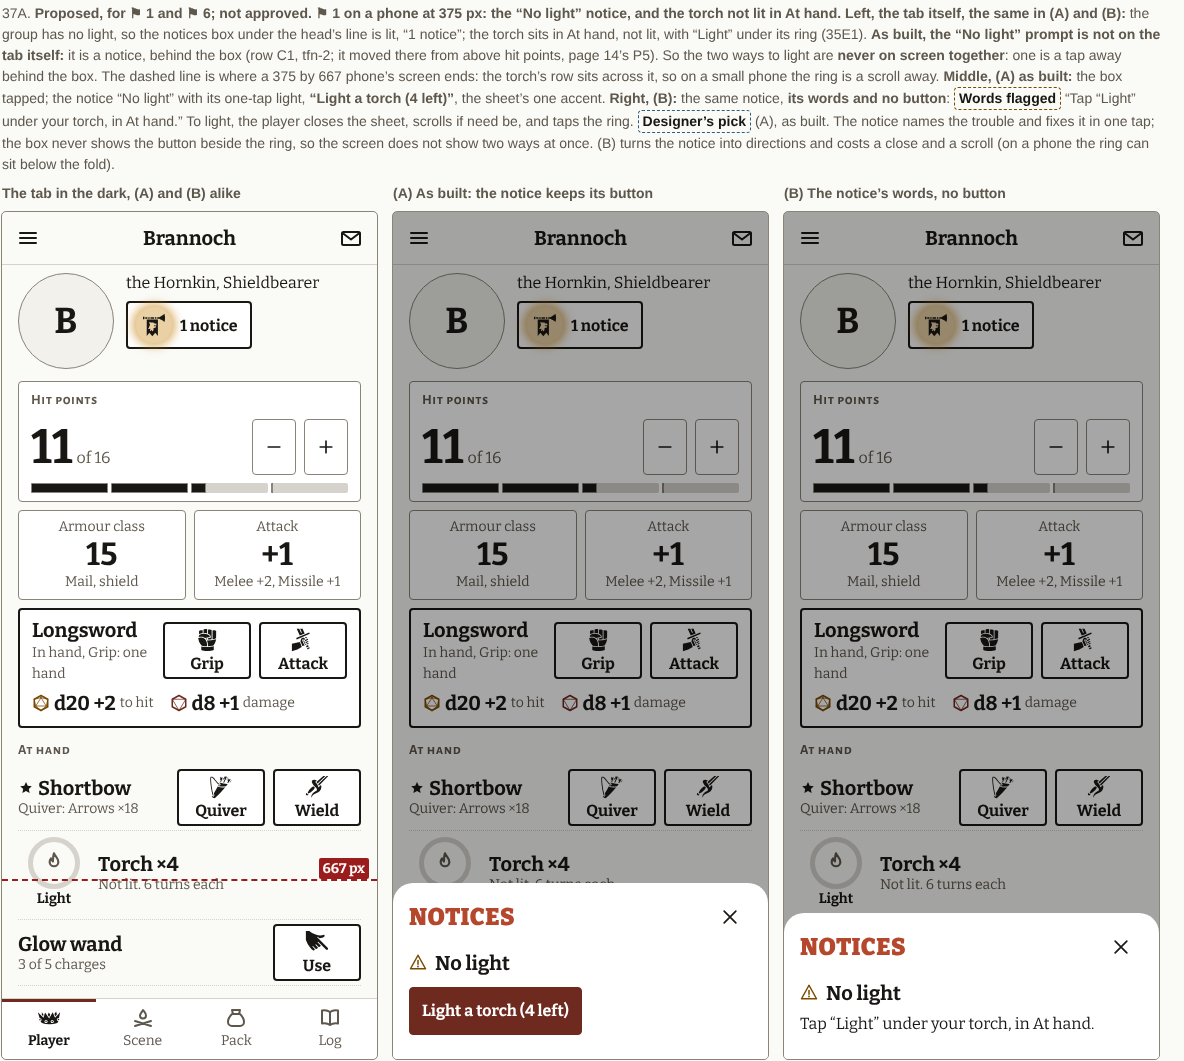
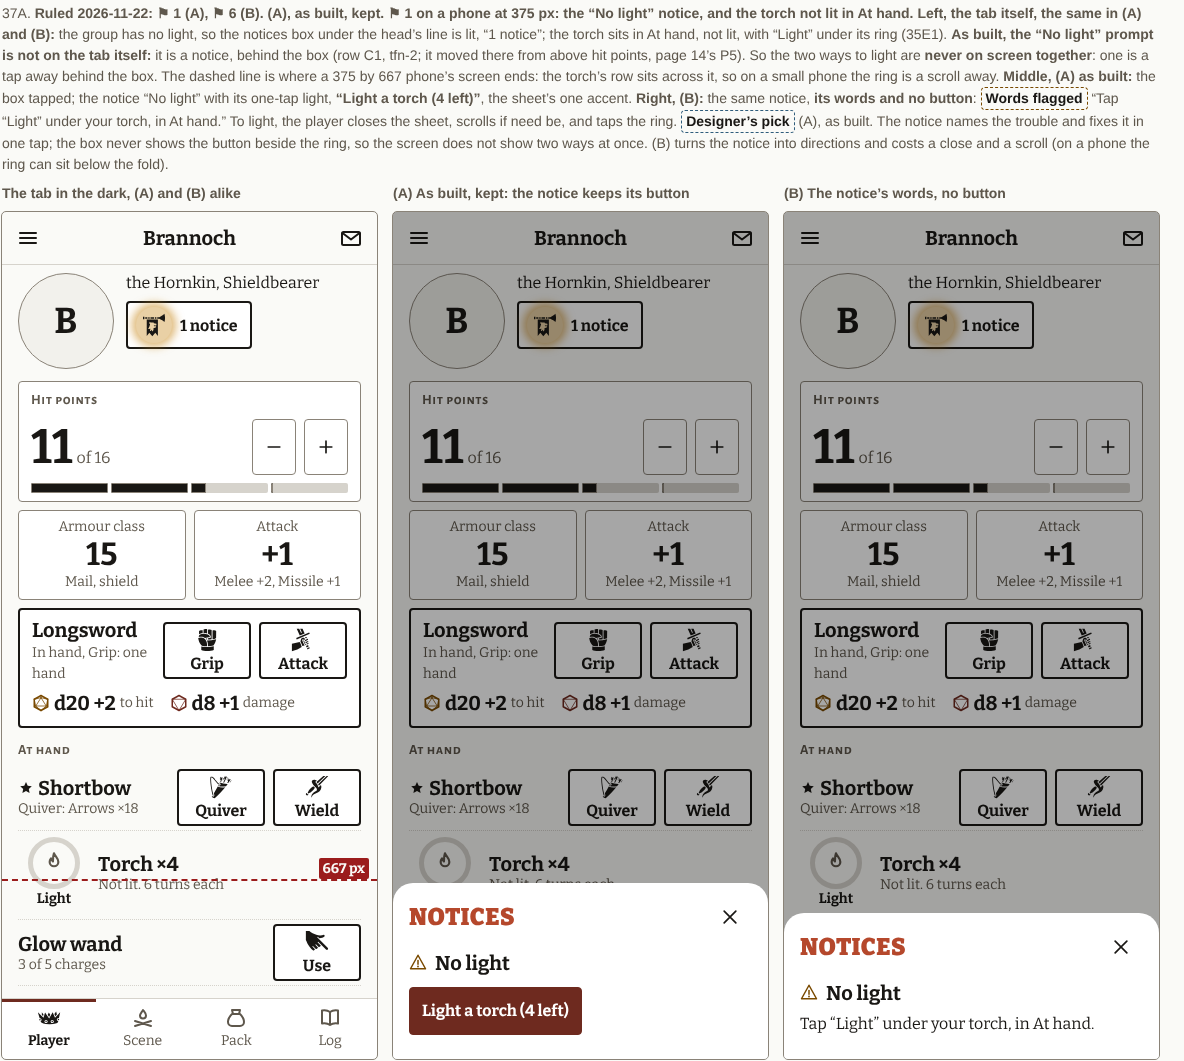
mock-light-flags: page 37 ruled, ⚑ 1 (A) and ⚑ 6 (B)
Francis, 2026-11-22, "1A 6B": the "No light" notice keeps its button (as
built, kept); the light's error sits in the light's place inside At hand
(37C's two (B) frames approved). Pictures re-rendered; index rows updated.

Claude-Session: https://claude.ai/code/session_01378fdkuF1M2QHmo7WWDM8F

Changed region(s): [[0.0, 0.0, 0.9688, 0.1866]]

diff --git a/docs/design/mockups/december/37-light-flags-1-and-6.html b/docs/design/mockups/december/37-light-flags-1-and-6.html
@@ -2,7 +2,7 @@
 <html lang="en">
 <head>
 <meta charset="utf-8">
-<title>December: page 37, the light's ⚑ 1 and ⚑ 6, as built and the alternative (proposed, 2026-11-22)</title>
+<title>December: page 37, the light's ⚑ 1 and ⚑ 6, as built and the alternative (ruled 2026-11-22: ⚑ 1 (A), ⚑ 6 (B))</title>
 <link rel="stylesheet" href="../creation/final/final.css">
 <link rel="stylesheet" href="../scene/scene.css">
 <link rel="stylesheet" href="../scene/scene-seq.css">
@@ -102,7 +102,7 @@
 <script src="../shared/book.js"></script>
 <script>
 // Invented names and numbers only. Brannoch's Player tab in the dark, his torch not lit (page 35, frame 35E1).
-const PROPOSED = '<b>Proposed, for ⚑ 1 and ⚑ 6; not approved.</b> ';
+const RULED = '<b>Ruled 2026-11-22: ⚑ 1 (A), ⚑ 6 (B).</b> ';
 const dpick = (words) => `<span class="pk">Designer’s pick</span> ${words}`;
 const flag = (words) => `<span class="flag">Words flagged</span> ${words}`;
 const stk = (words, k) => `<span class="btn stk" role="button">${gi(k, 24)}<span>${words}</span></span>`;
@@ -144,27 +144,27 @@ const SHEET_B = noticeSheet({ body: 'Tap “Light” under your torch, in At han
 const tabDark = `${headPhone}${hp}${acAtk}${weapon}${atHand(unlit(TORCHES))}`;
 
 // ---- 37A: ⚑ 1 on a phone ----
-const kA = frameOf(`37A. ${PROPOSED}<b>⚑ 1 on a phone at 375 px: the “No light” notice, and the torch not lit in At hand.</b> <b>Left, the tab itself, the same in (A) and (B):</b> the group has no light, so the notices box under the head’s line is lit, “1 notice”; the torch sits in At hand, not lit, with “Light” under its ring (35E1). <b>As built, the “No light” prompt is not on the tab itself:</b> it is a notice, behind the box (row C1, tfn-2; it moved there from above hit points, page 14’s P5). So the two ways to light are <b>never on screen together</b>: one is a tap away behind the box. The dashed line is where a 375 by 667 phone’s screen ends: the torch’s row sits across it, so on a small phone the ring is a scroll away. <b>Middle, (A) as built:</b> the box tapped; the notice “No light” with its one-tap light, <b>“Light a torch (4 left)”</b>, the sheet’s one accent. <b>Right, (B):</b> the same notice, <b>its words and no button</b>: ${flag('“Tap “Light” under your torch, in At hand.”')} To light, the player closes the sheet, scrolls if need be, and taps the ring. ${dpick('(A), as built. The notice names the trouble and fixes it in one tap; the box never shows the button beside the ring, so the screen does not show two ways at once. (B) turns the notice into directions and costs a close and a scroll (on a phone the ring can sit below the fold).')}`,
-  [colOf('The tab in the dark, (A) and (B) alike', ph(tabDark, { fold: 667 })), colOf('(A) As built: the notice keeps its button', ph(tabDark, { over: SHEET_A })), colOf('(B) The notice’s words, no button', ph(tabDark, { over: SHEET_B }))], 1160);
+const kA = frameOf(`37A. ${RULED}<b>(A), as built, kept.</b> <b>⚑ 1 on a phone at 375 px: the “No light” notice, and the torch not lit in At hand.</b> <b>Left, the tab itself, the same in (A) and (B):</b> the group has no light, so the notices box under the head’s line is lit, “1 notice”; the torch sits in At hand, not lit, with “Light” under its ring (35E1). <b>As built, the “No light” prompt is not on the tab itself:</b> it is a notice, behind the box (row C1, tfn-2; it moved there from above hit points, page 14’s P5). So the two ways to light are <b>never on screen together</b>: one is a tap away behind the box. The dashed line is where a 375 by 667 phone’s screen ends: the torch’s row sits across it, so on a small phone the ring is a scroll away. <b>Middle, (A) as built:</b> the box tapped; the notice “No light” with its one-tap light, <b>“Light a torch (4 left)”</b>, the sheet’s one accent. <b>Right, (B):</b> the same notice, <b>its words and no button</b>: ${flag('“Tap “Light” under your torch, in At hand.”')} To light, the player closes the sheet, scrolls if need be, and taps the ring. ${dpick('(A), as built. The notice names the trouble and fixes it in one tap; the box never shows the button beside the ring, so the screen does not show two ways at once. (B) turns the notice into directions and costs a close and a scroll (on a phone the ring can sit below the fold).')}`,
+  [colOf('The tab in the dark, (A) and (B) alike', ph(tabDark, { fold: 667 })), colOf('(A) As built, kept: the notice keeps its button', ph(tabDark, { over: SHEET_A })), colOf('(B) The notice’s words, no button', ph(tabDark, { over: SHEET_B }))], 1160);
 
 // ---- 37B: ⚑ 1 on the tablet held sideways ----
 const railP = `<div class="rail">${[['crown', 'Player', 1], ['fire', 'Scene'], ['sack', 'Pack']].map(([k, l, on]) => `<span class="ri${on ? ' on' : ''}" role="button" aria-label="${l}">${k === 'crown' ? gi('crown', 24) : sym(k, 24)}</span>`).join('')}</div>`;
 const rings2 = `<span class="rg" role="button" aria-label="Poisoned, 1 of 4 turns left: its details" style="color:var(--ink)">${svg('<path d="M12 3c3 4.500 6 7.500 6 11a6 6 0 0 1-12 0c0-3.500 3-6.500 6-11z" ' + W + '/>', 24)}</span>`;
 const right = `<div class="rtop">${nb(1, false)}<p class="sclab">Scores</p></div><div class="tiles" style="grid-template-columns:repeat(3,minmax(0,1fr));margin-top:0">${[['Might', 14, '+1'], ['Grace', 10, '&nbsp;'], ['Grit', 13, '+1'], ['Wit', 9, '&nbsp;'], ['Sense', 11, '&nbsp;'], ['Voice', 12, '&nbsp;']].map(([k, v, c]) => tile(k, v, c)).join('')}</div><p class="sclab">Saves</p><div class="tiles" style="grid-template-columns:repeat(5,minmax(0,1fr))">${[['Body', 12], ['Nerve', 13], ['Wits', 14], ['Luck', 15], ['Ward', 16]].map(([k, v]) => tile(k, v)).join('')}</div><p class="sclab">Movement</p><div class="row"><span class="t"><b>9 m a turn</b><small>Unburdened</small></span></div>`;
 const leftT = `<div class="hdt"><span class="av" role="button" aria-label="Portrait: change it">B</span>${rings2}</div>${hp}${acAtk}${weapon}${atHand(unlit(TORCHES))}`;
-const kB = `<div><p class="cap" style="width:1180px;max-width:1180px">37B. ${PROPOSED}<b>⚑ 1 on a tablet held sideways, 1180 by 820: where At hand sits.</b> As page 35’s frame 35C and page M1 draw it: the notices box at the top of the right column, over Scores (lit, “1 notice”); the left column the head, hit points, armour class and attack, the weapon in hand, then At hand with the torch not lit. <b>The dashed line is the screen’s foot at 820 px.</b> Measured in this drawing: <b data-measure="ring"></b> The box and the ring are both on screen at once, in the two columns; the notice’s button is still behind the box, so in (A) and in (B) the tablet shows one way to light on the tab itself, as on the phone. More rows pinned above the light in At hand would push it down; the measurement is for this pack.</p><div class="tab dev foldw">${railP}<div class="main">${topRow('player')}<div class="cols9"><div class="bit">${leftT}</div><div class="bit">${right}</div></div><div class="cut">The screen goes on below: the level block, Details; on the right, traits, skills.</div></div><div class="fold" style="top:820px" data-fold><span>820 px</span></div></div></div>`;
+const kB = `<div><p class="cap" style="width:1180px;max-width:1180px">37B. ${RULED}<b>As built, kept (⚑ 1 (A)).</b> <b>⚑ 1 on a tablet held sideways, 1180 by 820: where At hand sits.</b> As page 35’s frame 35C and page M1 draw it: the notices box at the top of the right column, over Scores (lit, “1 notice”); the left column the head, hit points, armour class and attack, the weapon in hand, then At hand with the torch not lit. <b>The dashed line is the screen’s foot at 820 px.</b> Measured in this drawing: <b data-measure="ring"></b> The box and the ring are both on screen at once, in the two columns; the notice’s button is still behind the box, so in (A) and in (B) the tablet shows one way to light on the tab itself, as on the phone. More rows pinned above the light in At hand would push it down; the measurement is for this pack.</p><div class="tab dev foldw">${railP}<div class="main">${topRow('player')}<div class="cols9"><div class="bit">${leftT}</div><div class="bit">${right}</div></div><div class="cut">The screen goes on below: the level block, Details; on the right, traits, skills.</div></div><div class="fold" style="top:820px" data-fold><span>820 px</span></div></div></div>`;
 
 // ---- 37C: ⚑ 6, the error ----
 const ERR = 'Couldn’t load the light. Check your connection and try again.';
 const tryAgain = `<span class="btn" role="button">Try again</span>`;
 const errA = `<p class="sclab">Light</p><p class="ferr" role="alert">${ERR}</p>${tryAgain}`;
 const errB = `<div class="errw"><p class="ferr" role="alert">${ERR}</p>${tryAgain}</div>`;
-const kC = frameOf(`37C. ${PROPOSED}<b>⚑ 6: the light could not be read.</b> The words and the button are the built ones (<code>LightSection</code>’s error): “${ERR}” in the warning colour with its edge, and “Try again” (secondary). <b>Left, (A) as built:</b> above At hand under its own <b>“Light”</b> heading; once page 35 is built this is the only time that heading shows. <b>Middle, (B):</b> no heading; the same words and Try again <b>in the light’s place inside At hand</b>, between the bow and the wand, where the torch sits when it loads. <b>Right, (B) with nothing else at hand:</b> the error alone makes At hand, as the light alone does (35E1, answer 2). In both, a tap on Try again reads the light again; when it loads, the light’s row stands where the error was (in (A) it moves down into At hand, in (B) it stays put). ${dpick('(B). The light keeps one place on the screen in every state, and no heading is left over from the section that went. It also lets the builder drop the slot above At hand (<code>beforeAtHand</code>) instead of keeping it for one state.')}`,
-  [colOf('(A) As built: a “Light” heading, above At hand', ph(`${errA}${atHand('')}`)), colOf('(B) In the light’s place, in At hand', ph(atHand(errB))), colOf('(B) With nothing else at hand', ph(atHand(errB, { bow: false, wand: false })))], 1160);
+const kC = frameOf(`37C. ${RULED}<b>The two (B) frames approved 2026-11-22;</b> (A) is today’s, to be replaced. <b>⚑ 6: the light could not be read.</b> The words and the button are the built ones (<code>LightSection</code>’s error): “${ERR}” in the warning colour with its edge, and “Try again” (secondary). <b>Left, (A) as built:</b> above At hand under its own <b>“Light”</b> heading; once page 35 is built this is the only time that heading shows. <b>Middle, (B):</b> no heading; the same words and Try again <b>in the light’s place inside At hand</b>, between the bow and the wand, where the torch sits when it loads. <b>Right, (B) with nothing else at hand:</b> the error alone makes At hand, as the light alone does (35E1, answer 2). In both, a tap on Try again reads the light again; when it loads, the light’s row stands where the error was (in (A) it moves down into At hand, in (B) it stays put). ${dpick('(B). The light keeps one place on the screen in every state, and no heading is left over from the section that went. It also lets the builder drop the slot above At hand (<code>beforeAtHand</code>) instead of keeping it for one state.')}`,
+  [colOf('(A) As built: a “Light” heading, above At hand', ph(`${errA}${atHand('')}`)), colOf('(B) Approved 2026-11-22: in the light’s place, in At hand', ph(atHand(errB))), colOf('(B) Approved 2026-11-22: nothing else at hand', ph(atHand(errB, { bow: false, wand: false })))], 1160);
 
 mount(`
   <h1>The light: ⚑ 1 and ⚑ 6, as built and the alternative</h1>
-  <p class="note"><b>Proposed, for ⚑ 1 and ⚑ 6 of <code>docs/plans/light-tap.md</code>; not approved.</b> For the driver’s brief of 2026-11-22 (row mock-light-flags-1-6): Francis asked to see these two before ruling. Built on page 35 (approved 2026-11-22: the ring is the tap; the not-lit light sits in At hand, 35E1), page 14’s P5 (the “No light” prompt) and page M1 (the notices box, approved 2026-11-19), and on <code>main</code>’s source: <code>Darkness.tsx</code> (the prompt’s words), <code>PlayerNotices.tsx</code> (“No light” as a notice) and <code>LightSection.tsx</code> (the error). Names, words and numbers are invented. Every other part of the screen is drawn as page 35 and page 14 draw it.</p>
+  <p class="note"><b>Ruled 2026-11-22: ⚑ 1 (A), ⚑ 6 (B)</b> (Francis, “1A 6B”), for ⚑ 1 and ⚑ 6 of <code>docs/plans/light-tap.md</code>. ⚑ 1: the “No light” notice keeps its button, as built, kept. ⚑ 6: the error sits in the light’s place inside At hand, the two (B) frames of 37C approved 2026-11-22. For the driver’s brief of 2026-11-22 (row mock-light-flags-1-6): Francis asked to see these two before ruling. Built on page 35 (approved 2026-11-22: the ring is the tap; the not-lit light sits in At hand, 35E1), page 14’s P5 (the “No light” prompt) and page M1 (the notices box, approved 2026-11-19), and on <code>main</code>’s source: <code>Darkness.tsx</code> (the prompt’s words), <code>PlayerNotices.tsx</code> (“No light” as a notice) and <code>LightSection.tsx</code> (the error). Names, words and numbers are invented. Every other part of the screen is drawn as page 35 and page 14 draw it.</p>
   <p class="note"><b>What I found in the source, for ⚑ 1.</b> The plan’s ⚑ 1 reads as if the prompt still sits above hit points (page 14, P5). On the Player tab it no longer does: since tfn-2 “No light” is <b>a notice behind the notices box</b>, its button “Light a torch (4 left)” the notice sheet’s accent. So the tab shows the lit box and the ring; the button shows only once the box is tapped. The Scene tab still draws “No light” with its button in its prompt slot; the Scene has no At hand, so it is not part of ⚑ 1 and is not drawn.</p>
   <h1>37A. ⚑ 1, the “No light” notice, on a phone</h1>
   <div class="wall">${kA}</div>

diff --git a/docs/design/mockups/index.md b/docs/design/mockups/index.md
@@ -518,10 +518,10 @@ Every picture in `m4b/`, `m6/` and `superseded/` has one row here, and every row
 | [december/png/35-E2-several-and-burnt-out-dark.png](december/png/35-E2-several-and-burnt-out-dark.png) | `../rulings/light-tap-2026-11-22.md` (lt-1 to lt-9), row mock-light-tap (page 35, frame 35E2: the same in dark; a frame of `december/35-the-light-ring-is-the-tap.html`; approved by Francis 2026-11-22 from pictures, “Approved”, with its designer’s picks; the toasts in the app’s own word order) | dark | current |
 | [december/png/35-F-the-hue-taken-away-light.png](december/png/35-F-the-hue-taken-away-light.png) | `../rulings/light-tap-2026-11-22.md` (lt-1 to lt-9), row mock-light-tap (page 35, frame 35F: lit, not lit and burnt out with the hue taken away, for Francis to judge; a frame of `december/35-the-light-ring-is-the-tap.html`; approved by Francis 2026-11-22 from pictures, “Approved”, with its designer’s picks; the toasts in the app’s own word order) | light | current |
 | [december/png/35-F-the-hue-taken-away-dark.png](december/png/35-F-the-hue-taken-away-dark.png) | `../rulings/light-tap-2026-11-22.md` (lt-1 to lt-9), row mock-light-tap (page 35, frame 35F: the same in dark; a frame of `december/35-the-light-ring-is-the-tap.html`; approved by Francis 2026-11-22 from pictures, “Approved”, with its designer’s picks; the toasts in the app’s own word order) | dark | current |
-| [december/png/37-A-flag-1-phone-light.png](december/png/37-A-flag-1-phone-light.png) | `../../plans/light-tap.md` ⚑ 1 and ⚑ 6, row mock-light-flags-1-6 (page 37, frame 37A: ⚑ 1 on a phone at 375 px: the tab in the dark with the notices box lit and the torch not lit in At hand, the fold of a 375 by 667 screen; (A) as built, the “No light” notice with its “Light a torch (4 left)”; (B) its words and no button; a frame of `december/37-light-flags-1-and-6.html`; proposed, for ⚑ 1 and ⚑ 6, not approved; Francis asked to see both before ruling) | light | current |
-| [december/png/37-B-flag-1-tablet-light.png](december/png/37-B-flag-1-tablet-light.png) | `../../plans/light-tap.md` ⚑ 1 and ⚑ 6, row mock-light-flags-1-6 (page 37, frame 37B: ⚑ 1 on a tablet held sideways, 1180 by 820: the box at the top of the right column, At hand in the left, the torch’s ring measured against the fold; a frame of `december/37-light-flags-1-and-6.html`; proposed, for ⚑ 1 and ⚑ 6, not approved; Francis asked to see both before ruling) | light | current |
-| [december/png/37-C-flag-6-the-error-light.png](december/png/37-C-flag-6-the-error-light.png) | `../../plans/light-tap.md` ⚑ 1 and ⚑ 6, row mock-light-flags-1-6 (page 37, frame 37C: ⚑ 6, “Couldn’t load the light” with Try again: (A) as built, above At hand under a “Light” heading; (B) in the light’s place inside At hand; (B) with nothing else at hand; a frame of `december/37-light-flags-1-and-6.html`; proposed, for ⚑ 1 and ⚑ 6, not approved; Francis asked to see both before ruling) | light | current |
-| [december/png/37-C-flag-6-the-error-dark.png](december/png/37-C-flag-6-the-error-dark.png) | `../../plans/light-tap.md` ⚑ 1 and ⚑ 6, row mock-light-flags-1-6 (page 37, frame 37C: the same in dark; a frame of `december/37-light-flags-1-and-6.html`; proposed, for ⚑ 1 and ⚑ 6, not approved; Francis asked to see both before ruling) | dark | current |
+| [december/png/37-A-flag-1-phone-light.png](december/png/37-A-flag-1-phone-light.png) | `../../plans/light-tap.md` ⚑ 1 and ⚑ 6, row mock-light-flags-1-6 (page 37, frame 37A: ⚑ 1 on a phone at 375 px: the tab in the dark with the notices box lit and the torch not lit in At hand, the fold of a 375 by 667 screen; (A) as built, the “No light” notice with its “Light a torch (4 left)”; (B) its words and no button; a frame of `december/37-light-flags-1-and-6.html`; ruled 2026-11-22, “1A 6B”: ⚑ 1 (A), as built, kept) | light | current |
+| [december/png/37-B-flag-1-tablet-light.png](december/png/37-B-flag-1-tablet-light.png) | `../../plans/light-tap.md` ⚑ 1 and ⚑ 6, row mock-light-flags-1-6 (page 37, frame 37B: ⚑ 1 on a tablet held sideways, 1180 by 820: the box at the top of the right column, At hand in the left, the torch’s ring measured against the fold; a frame of `december/37-light-flags-1-and-6.html`; ruled 2026-11-22, “1A 6B”: ⚑ 1 (A), as built, kept) | light | current |
+| [december/png/37-C-flag-6-the-error-light.png](december/png/37-C-flag-6-the-error-light.png) | `../../plans/light-tap.md` ⚑ 1 and ⚑ 6, row mock-light-flags-1-6 (page 37, frame 37C: ⚑ 6, “Couldn’t load the light” with Try again: (A) as built, above At hand under a “Light” heading; (B) in the light’s place inside At hand; (B) with nothing else at hand; a frame of `december/37-light-flags-1-and-6.html`; ruled 2026-11-22, “1A 6B”: ⚑ 6 (B), its two (B) frames approved by Francis 2026-11-22; (A) is today’s, to be replaced) | light | current |
+| [december/png/37-C-flag-6-the-error-dark.png](december/png/37-C-flag-6-the-error-dark.png) | `../../plans/light-tap.md` ⚑ 1 and ⚑ 6, row mock-light-flags-1-6 (page 37, frame 37C: the same in dark; a frame of `december/37-light-flags-1-and-6.html`; ruled 2026-11-22, “1A 6B”: ⚑ 6 (B), its two (B) frames approved by Francis 2026-11-22; (A) is today’s, to be replaced) | dark | current |
 | [pack/png/01-standing-dark.png](pack/png/01-standing-dark.png) | `../rulings/dec-afternoon-2026-11-14.md` ap-6 and earlier Pack rework drawings (pages `pack/01` to `pack/04`, draft #632; the whole page 08 supersedes their layout) | dark | current |
 | [pack/png/02-find-arrived-dark.png](pack/png/02-find-arrived-dark.png) | `../rulings/dec-afternoon-2026-11-14.md` ap-6 and earlier Pack rework drawings (pages `pack/01` to `pack/04`, draft #632; the whole page 08 supersedes their layout) | dark | current |
 | [pack/png/03-wide-pc-dark.png](pack/png/03-wide-pc-dark.png) | `../rulings/dec-afternoon-2026-11-14.md` ap-6 and earlier Pack rework drawings (pages `pack/01` to `pack/04`, draft #632; the whole page 08 supersedes their layout) | dark | current |
